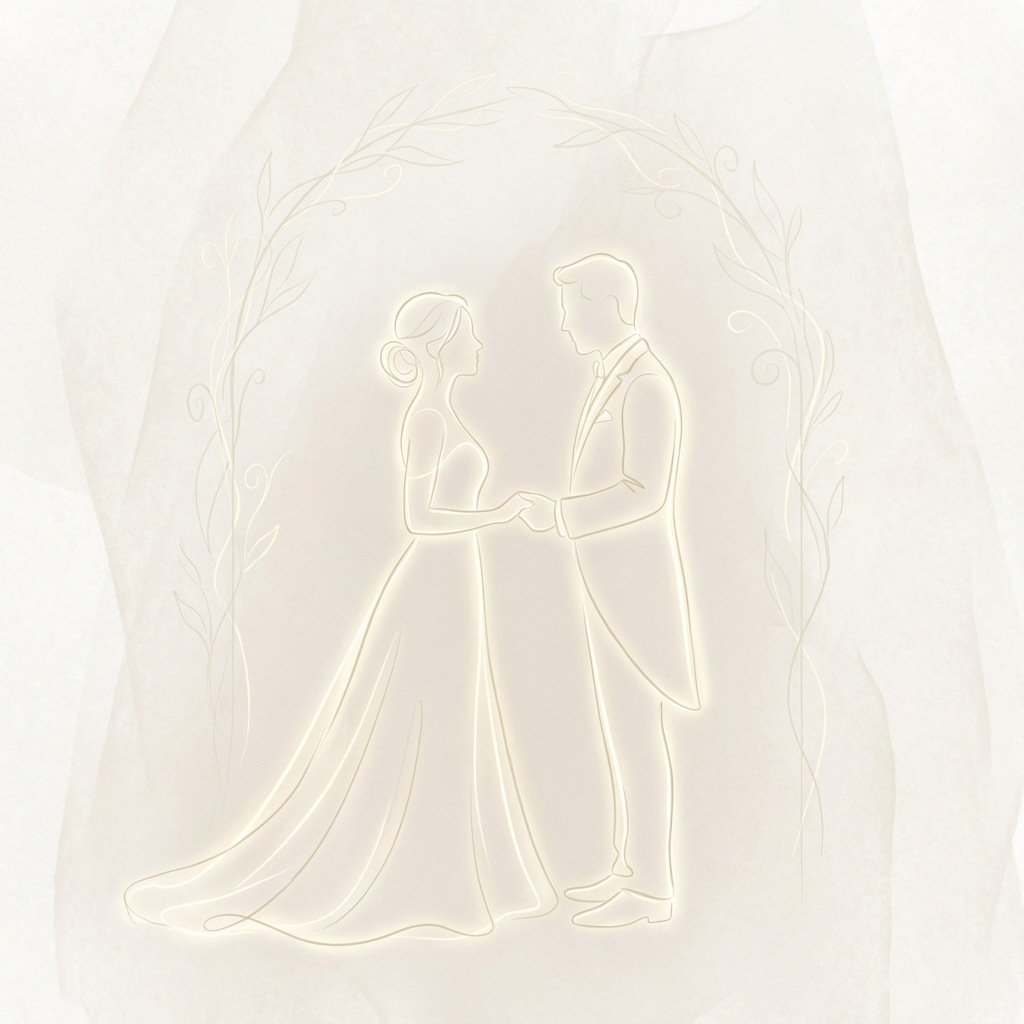
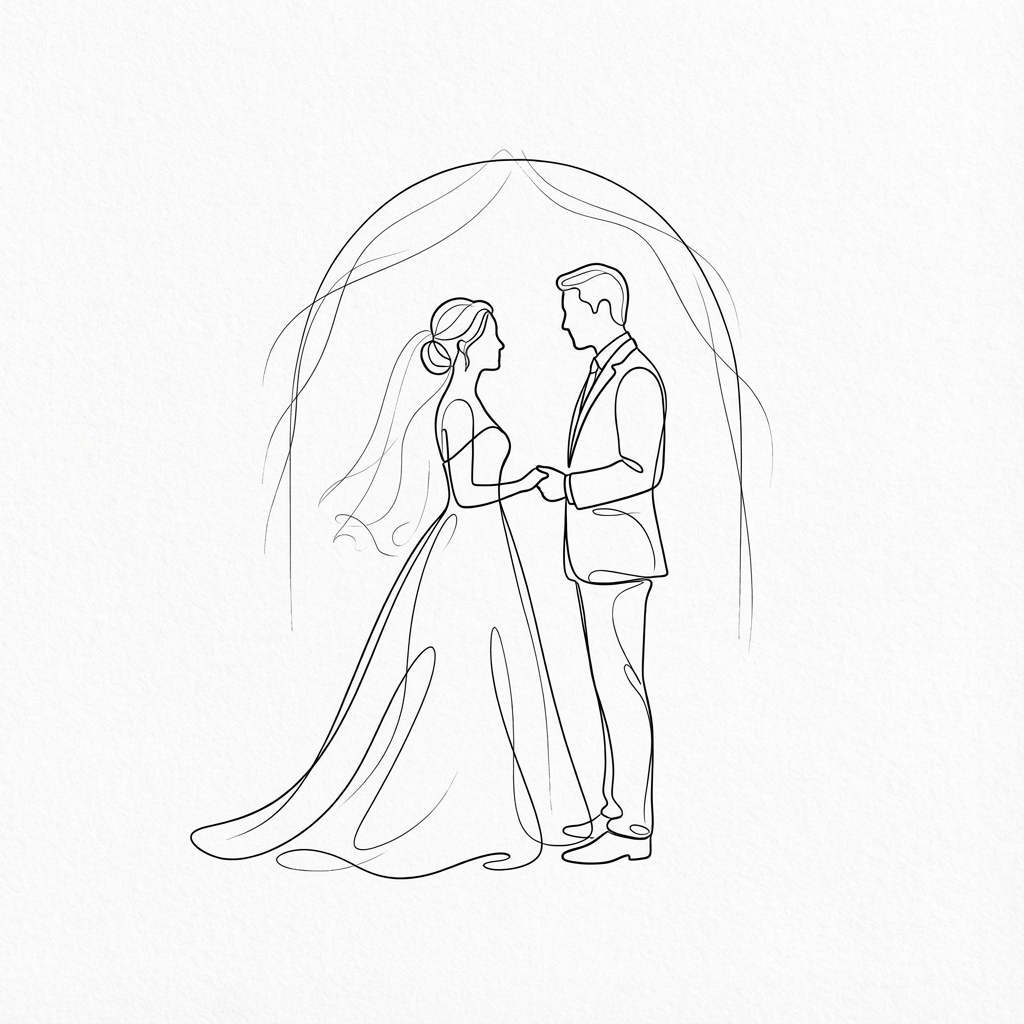
Update visual: Black line silhouette & Fix main.js syntax

diff --git a/main.js b/main.js
@@ -190,28 +190,27 @@ document.addEventListener('DOMContentLoaded', () => {
             });
 
             if (response.ok) {
-                if (response.ok) {
-                    // Success: Replace form with Thank You message
-                    rsvpForm.innerHTML = `
-                        <div class="thank-you-message text-center fade-in visible">
-                            <h3 class="rsvp-success-header">THANK YOU FOR YOUR ATTENDANCE</h3>
-                            <p class="rsvp-success-msg">
-                                Merupakan suatu kebahagiaan dan kehormatan bagi kami, apabila Bapak/Ibu/Saudara/i berkenan hadir di hari bahagia kami.
-                            </p>
-                            <h2 class="rsvp-success-names">Athur & Dara</h2>
-                            <p class="rsvp-hashtag">#AthurHidupDenganDara</p>
-                        </div>
-                    `;
-                    loadWishes(); // Refresh wishes
-                } else {
-                    throw new Error('Failed to submit');
-                }
-            } catch (error) {
-                alert('There was an error submitting your RSVP. Please try again.');
-                submitBtn.disabled = false;
-                submitBtn.textContent = originalText;
+                // Success: Replace form with Thank You message
+                rsvpForm.innerHTML = `
+                    <div class="thank-you-message text-center fade-in visible">
+                        <h3 class="rsvp-success-header">THANK YOU FOR YOUR ATTENDANCE</h3>
+                        <p class="rsvp-success-msg">
+                            Merupakan suatu kebahagiaan dan kehormatan bagi kami, apabila Bapak/Ibu/Saudara/i berkenan hadir di hari bahagia kami.
+                        </p>
+                        <h2 class="rsvp-success-names">Athur & Dara</h2>
+                        <p class="rsvp-hashtag">#AthurHidupDenganDara</p>
+                    </div>
+                `;
+                loadWishes(); // Refresh wishes
+            } else {
+                throw new Error('Failed to submit');
             }
-        });
+        } catch (error) {
+            alert('There was an error submitting your RSVP. Please try again.');
+            submitBtn.disabled = false;
+            submitBtn.textContent = originalText;
+        }
+    });
 
     // 8. Backend Integration: Wishes Carousel
     let wishes = [];
